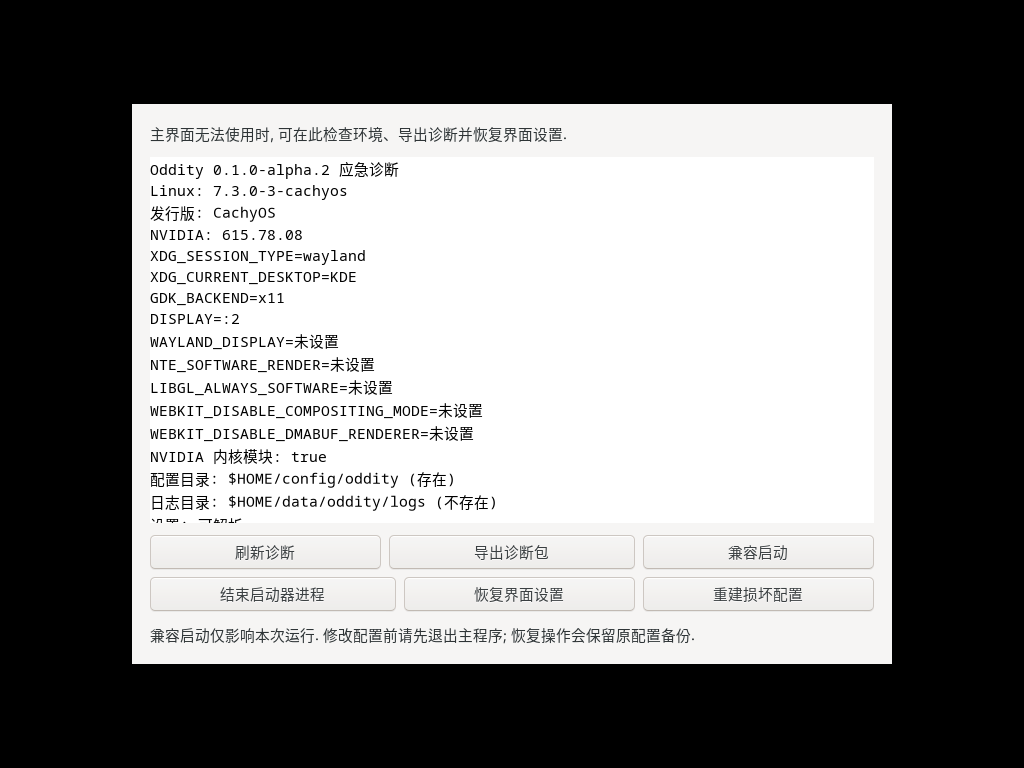
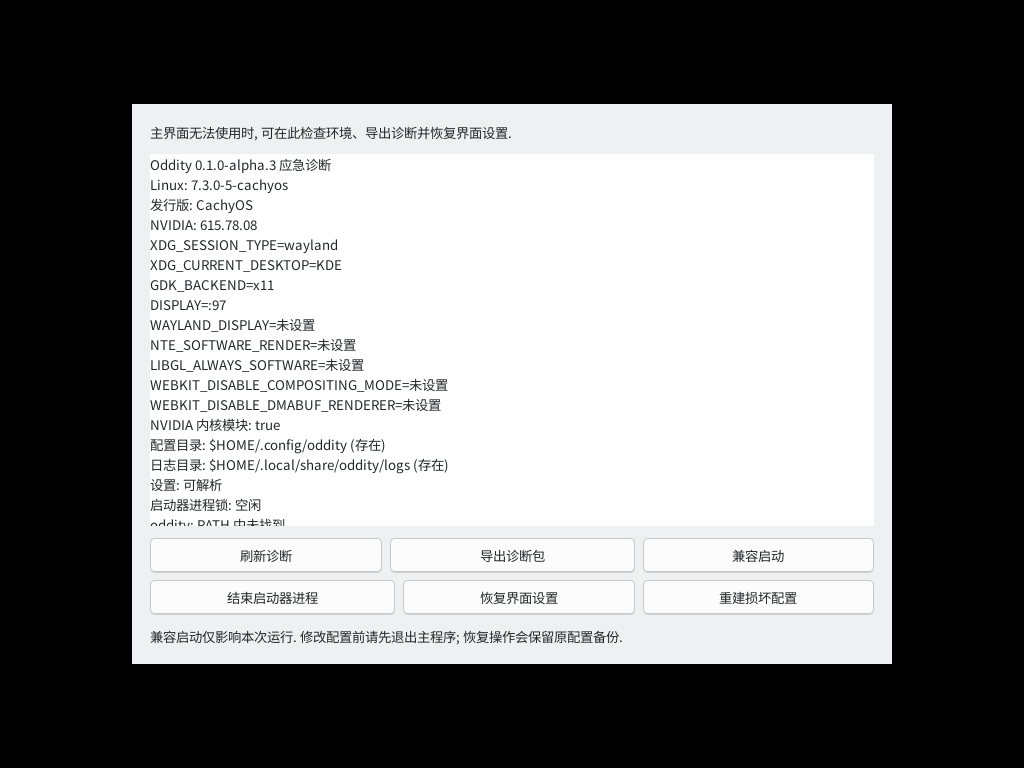
docs: 重构 README 并准备 alpha.3 (#117)
* docs: 重构 README 并补充技术差异

* docs: 统一 README 中文标点

* chore(release): 补齐 alpha.3 版本号

Changed region(s): [[0.125, 0.1562, 0.8438, 0.8438]]

diff --git a/launcher/ui/src/core/api.ts b/launcher/ui/src/core/api.ts
@@ -270,8 +270,8 @@ function previewSnapshotComparison(
       key: "launcher.version",
       section: "启动器",
       label: "Oddity 版本",
-      baseline: "0.1.0-alpha.2",
-      current: "0.1.0-alpha.2",
+      baseline: "0.1.0-alpha.3",
+      current: "0.1.0-alpha.3",
       status: "same",
     },
     {

diff --git a/README.md b/README.md
@@ -1,3 +1,4 @@
+<!--suppress CheckImageSize -->
 <div align="center">
 
 <img src="launcher/ui/public/assets/app-icon.svg" width="76" alt="Oddity 图标">
@@ -6,7 +7,7 @@
 
 **《异环》的 Linux 启动器**
 
-游戏资源的安装, 更新和启动, 都在同一个窗口里完成.
+*一切正常，就是异常*
 
 [![Release](https://img.shields.io/github/v/release/LaT-SKY/Oddity?include_prereleases&label=release)](https://github.com/LaT-SKY/Oddity/releases)
 [![Platform](https://img.shields.io/badge/platform-Linux-informational)](https://github.com/LaT-SKY/Oddity)
@@ -18,64 +19,97 @@
   <img src="docs/assets/launcher-home.png" width="1280" alt="Oddity 启动界面">
 </p>
 
-> 截图取自 Oddity 实际运行. 账号与部分游戏数据为示例. 图中官方美术素材版权归其权利人所有, 详见[美术素材声明](ASSETS.md).
+Oddity 通过 `umu-run` 和 Proton 管理游戏运行环境，并集成了资源检查、下载、校验和启动。
 
-Oddity 不附带游戏文件, 资源来自官方服务. 它把检查, 下载, 校验和启动放在一起, 让 Linux 上的《异环》不必在多个窗口之间来回切换.
+## _Features_
 
-## 能做什么
+**资源管理**
+- 增量更新、断点续传、完整性校验与按需修复。
 
-| 能力        | 你会得到什么                                  |
-|-----------|-----------------------------------------|
-| **安装与更新** | 检查官方资源清单, 只下载缺失或变化的文件; 下载可以暂停, 下次接着来.   |
-| **两个区服**  | 国服与国际服使用独立目录, 资源来源和启动配置, 互不覆盖.          |
-| **完整校验**  | 怀疑文件损坏时逐个核对哈希, 再按结果修复.                  |
-| **后台启动**  | 等官方资源检查完成再自动登录并启动, 启动按钮显示阶段并可暂停, 隐藏官方主窗口; 需要时也可以切到前台. |
-| **国服工具**  | 塔吉多登录, 自动签到, 体力与周本查询.                   |
-| **公告聚合**  | 汇总官方动态, 版本资讯与维护公告, 支持分类筛选和同源堆叠.         |
-| **游玩记录**  | 统计实际游戏时长, 展示近 12 个月热力图与月度记录, 可生成分享海报.      |
-| **桌面细节**  | 亮色/暗色主题, 动态/静态主视觉, 通知中心与玩家信息卡片.           |
+**多区服支持**
+- 国服与国际服独立管理，目录和启动配置互不干扰。
 
-## 开始使用
+**游戏启动**
+- 后台启动、外部启动入口，以及可选的 GameMode、Gamescope 和 MangoHud 集成。
 
-1. **安装 Oddity**. 从 [Releases](https://github.com/LaT-SKY/Oddity/releases) 选择发行版安装包, 各发行版的命令见[安装指南](docs/install.md#安装-oddity). 需要确认安装包来源时, 见[验证安装包](docs/install.md#验证安装包).
-2. **准备运行环境**. 安装 `umu-launcher`, 准备 Proton. 不需要手动设置 Wine prefix; 创建 Proton 运行环境后由 Oddity 创建和管理, 见[环境准备](docs/install.md#准备游戏环境).
-3. **完成首次设置**. 在 **设置 → 游戏与启动** 选择地区并填写安装目录, 在 **运行环境** 创建 Proton 环境.
-4. **检查并启动**. 在 **更新** 点击 **检查资源**, 按提示安装或更新, 完成后回到 **启动**.
+**国服扩展**
+- 塔吉多登录、自动签到、体力与周本查询。
 
-> 首次安装会先处理启动器文件, 再下载游戏资源. 资源体积较大, 建议留出足够空间和时间.
+**更多体验**
+- 官方公告、游玩记录、分享海报与主流手柄支持。
 
-> 主界面无法打开或无法操作时, 从应用菜单打开 **Oddity 应急恢复**, 点击 **兼容启动** 以应急模式启动. 详见[排障指南](docs/troubleshooting.md#使用应急模式).
+## _Installation_
 
-## 系统要求
+从 [Releases](https://github.com/LaT-SKY/Oddity/releases) 下载对应安装包：
 
-| 项目   | 要求                                                       |
-|------|----------------------------------------------------------|
-| 系统   | Linux x86_64, Wayland 或 X11                              |
-| 运行库  | Electron 44 (随包提供), GTK 3, NSS, ALSA     |
-| 图形   | 支持 Vulkan 的显卡驱动                                          |
-| 游戏环境 | `umu-launcher`, Proton (推荐 GE-Proton); Wine prefix 由 Oddity 创建和管理 |
-| 存储   | 可写的游戏安装目录, 首次安装需要完整资源                                    |
+| _发行版_ | 软件包 |
+|:---|:---|
+| ArchLinux | [AUR](https://aur.archlinux.org/packages/oddity-bin) / `.pkg.tar.zst` |
+| Debian / Ubuntu | `.deb` |
+| Fedora / openSUSE | `.rpm` |
+| Other | `.AppImage` |
 
-## 文档
+NixOS 和 Gentoo 请参阅 [Nix 指南](docs/nix.md) 与 [Gentoo 指南](docs/gentoo.md)。
 
-| 文档                                            | 内容                         |
-|-----------------------------------------------|----------------------------|
-| [安装指南](docs/install.md)                       | 发行版安装, 游戏环境, 首次设置, 公告, 更新与卸载. |
-| [排障指南](docs/troubleshooting.md)               | 启动失败, 黑屏, 下载中断, 日志导出和数据位置. |
-| [外部启动入口](docs/external-launch.md)             | 应用菜单, 桌面快捷方式, Steam 和命令行启动. |
-| [塔吉多指南](docs/taygedo.md)                      | 国服账号登录, 自动签到, 体力与周本.       |
-| [Nix](docs/nix.md) / [Gentoo](docs/gentoo.md) | 对应发行版的安装方式.                |
-| [贡献指南](CONTRIBUTING.md)                       | 代码风格, 目录结构, 检查与 PR 约定.        |
-| [安全政策](SECURITY.md)                           | 私密报告漏洞的范围与方式.              |
-| [第三方组件](THIRD_PARTY.md)                       | 字体, 图标, 依赖和协议参考的许可证.       |
-| [美术素材声明](ASSETS.md)                           | 官方美术素材与项目自制素材的授权范围.       |
+安装命令、签名校验及源码构建详见[安装指南](docs/install.md)。
 
-没有找到答案? 感谢您移步至 [Issues](https://github.com/LaT-SKY/Oddity/issues) 提交问题, 并附上 Oddity 版本和脱敏日志.
+## _Getting Started_
 
-## 许可证
+1. 安装 `umu-launcher` 和 Proton，参见[环境准备](docs/install.md#准备游戏环境)。
+2. 在 **设置** 中选择区服、游戏目录，并创建 Proton 运行环境。
+3. 前往 **更新** 检查资源，完成后即可从 **启动** 页面进入游戏。
 
-项目代码使用 [GPL-3.0-or-later](LICENSE); 第三方组件见[许可说明](THIRD_PARTY.md). 官方游戏美术素材不在 GPL 授权范围内, 授权范围见[美术素材声明](ASSETS.md).
+首次安装需要下载游戏资源，请预留足够空间。
+
+遇到问题？参阅[排障指南](docs/troubleshooting.md)。
+
+## _Requirements_
+
+- Linux x86_64（Wayland / X11）
+- 支持 Vulkan 的显卡及驱动
+- `umu-launcher` 和 Proton
+
+## _Preview_
+
+<p align="center">
+  <img src="docs/assets/launcher-update.png" width="48%" alt="资源更新界面">
+  <img src="docs/assets/launcher-bulletin.png" width="48%" alt="公告聚合界面">
+</p>
+
+<p align="center">
+  <img src="docs/assets/taygedo-records.png" width="48%" alt="塔吉多战绩面板">
+  <img src="docs/assets/launcher-settings.png" width="48%" alt="设置界面">
+</p>
+
+# _Technical Differences_
+
+Oddity 针对官方启动器的部分行为进行了改进，重点在于下载可靠性、更新效率与 Linux 兼容性。
+- 断点续传：保留已下载的文件及分块，进程中断后只补充缺失部分，避免重新下载完整资源。
+- 跨版本更新：基于官方 lastdiff 补丁表搜索更优的多跳更新路径。实测 1.4.14 → 1.4.18 仅需 728.5 MiB，而单跳直补丁约 3.64 GiB。
+- 完整性检查：支持快速检查与完整 MD5 校验。检查过程只读，确认后才执行修复，避免直接删除损坏文件。
+- Linux 兼容性：修复 GE-Proton 下直接启动游戏时的参数解析问题，默认通过 XWayland 运行。
+
+以上对比基于特定官方版本与测试环境，后续版本的行为可能有所变化。
+
+## _Documentation_
+
+- [安装指南](docs/install.md) — 安装、环境配置与首次运行。
+- [排障指南](docs/troubleshooting.md) — 启动异常、资源下载与应急恢复。
+- [Proton 运行环境](docs/runtime-environments.md) — A/B 环境、prefix 与快照。
+- [外部启动](docs/external-launch.md) — 应用菜单、Steam 与命令行。
+- [塔吉多指南](docs/taygedo.md) — 账号登录、自动签到与游戏数据查询。
+
+遇到问题？请前往 [Issues](https://github.com/LaT-SKY/Oddity/issues) 反馈。
+
+## _License_
+
+
+## License
+
+项目代码采用 [GPL-3.0-or-later](LICENSE) 许可。第三方组件的许可信息见 [THIRD_PARTY.md](THIRD_PARTY.md)，官方游戏美术素材不在 GPL 授权范围内，详见 [ASSETS.md](ASSETS.md)。
 
 <div align="center">
-<sub>Oddity 是第三方项目, 与《异环》开发方和发行方无隶属关系. 游戏名称, 商标与官方美术素材归其权利人所有.</sub>
+<sub>Oddity 是第三方项目，与《异环》开发方和发行方无隶属关系。</sub>
+
+<sub>游戏名称、商标与官方美术素材归其权利人所有。</sub>
 </div>

diff --git a/docs/nix.md b/docs/nix.md
@@ -11,7 +11,7 @@ nix run github:LaT-SKY/Oddity
 也可以指定发布标签:
 
 ```bash
-nix run github:LaT-SKY/Oddity/oddity-v0.1.0-alpha.2
+nix run github:LaT-SKY/Oddity/oddity-v0.1.0-alpha.3
 ```
 
 ## 加入 NixOS 配置
@@ -19,7 +19,7 @@ nix run github:LaT-SKY/Oddity/oddity-v0.1.0-alpha.2
 在现有 flake 的 `inputs` 中添加:
 
 ```nix
-oddity.url = "github:LaT-SKY/Oddity/oddity-v0.1.0-alpha.2";
+oddity.url = "github:LaT-SKY/Oddity/oddity-v0.1.0-alpha.3";
 ```
 
 将 `oddity` 传入现有 `outputs` 参数, 再在 NixOS 模块中加入:
